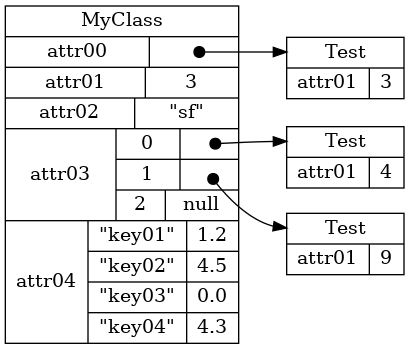
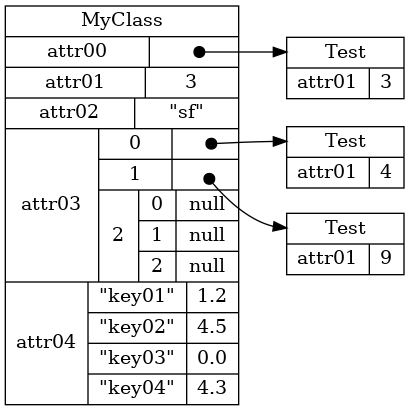
en cours) ObjectGraph comme une structure

Changed region(s): [[0.0, 0.0, 0.9976, 1.0]]

diff --git a/ntro_core/src/main/java/ca/ntro/core/reflection/object_graph/InternalObjectGraphWriterNtro.java b/ntro_core/src/main/java/ca/ntro/core/reflection/object_graph/InternalObjectGraphWriterNtro.java
@@ -10,6 +10,7 @@ import ca.ntro.core.graph_writer.GraphWriter;
 import ca.ntro.core.graph_writer.GraphWriterException;
 import ca.ntro.core.graph_writer.NodeSpecNtro;
 import ca.ntro.core.graph_writer.RecordItemSpecNtro;
+import ca.ntro.core.graph_writer.RecordNodeSpec;
 import ca.ntro.core.graph_writer.RecordNodeSpecNtro;
 import ca.ntro.core.graph_writer.RecordSpecNtro;
 import ca.ntro.core.graphs.generics.directed_graph.GenericInternalDirectedGraphWriterNtro;
@@ -38,14 +39,11 @@ public class InternalObjectGraphWriterNtro
 
 		}else {
 
-			ObjectGraphSearchOptions oneStepOptions = new ObjectGraphSearchOptionsNtro();
-			oneStepOptions.setMaxDistance(1);
-			
 			graph.startNodes().forEach(n -> {
 				
 				try {
 
-					writeNodeAsStructure(n, oneStepOptions, options, writer);
+					writeNodeAsStructure(n, options, writer);
 
 				} catch (GraphWriterException e) {
 
@@ -65,51 +63,59 @@ public class InternalObjectGraphWriterNtro
 	}
 	
 	protected void writeNodeAsStructure(ObjectNode node,
-						                ObjectGraphSearchOptions oneStepOptions,
 			                            ObjectGraphWriterOptions options,
 			                            GraphWriter writer) throws GraphWriterException {
 
 			RecordNodeSpecNtro fromSpec = recordNodeSpec(node, options);
 			RecordSpecNtro mainRecord = fromSpec.getRecord();
+			
+			mainRecord.addItem(new RecordItemSpecNtro(RecordNodeSpec.MAIN_PORT_NAME, node.label()));
+			
+			writeNodeAsStructure(fromSpec, node, mainRecord, options, writer);
 
-			node.edges().forEach(e -> {
+			writer.addNode(fromSpec);
+	}
+
+	protected void writeNodeAsStructure(RecordNodeSpecNtro fromSpec,
+										ObjectNode currentNode,
+			                            RecordSpecNtro currentRecord,
+			                            ObjectGraphWriterOptions options,
+			                            GraphWriter writer) throws GraphWriterException {
+
+			currentNode.edges().forEach(e -> {
 				
 				String attributeName = e.name().toString();
 				
 				if(e.to().isSimpleValue()) {
 					
-					RecordItemSpecNtro item = new RecordItemSpecNtro(attributeName, e.to().asSimpleValue().asString());
+					currentRecord.addItem(attributeName, e.to().asSimpleValue().asString());
 
-					mainRecord.addItem(item);
-
-				}else if(e.to().isList()){
+				}else if(e.to().isList() 
+						|| e.to().isMap()){
 					
-					RecordSpecNtro subRecord = new RecordSpecNtro();
+					RecordSpecNtro subRecord = currentRecord.addSubRecord(attributeName);
 					
 					e.to().edges().forEach(ee -> {
-						
-						String indexName = ee.name().toString();
-						String portName = attributeName + "_" + indexName;
-						
-						//fromSpec.addToList(e.name().toString(), e.to());
-						
-						if(!ee.to().isSimpleValue()) {
-							
-							// TODO: how to specify port
-							//writer.addEdge(fromSpec, new EdgeSpecNtro(e), new NodeSpecNtro(ee.to()));
-						}
+
+						writeNodeAsStructure(fromSpec, ee.to(), subRecord, options, writer);
+
 					});
 					
-					mainRecord.addItem(subRecord);
+				}else if(e.to().isUserDefinedObject()){
+
+					RecordItemSpecNtro item = currentRecord.addItem(attributeName);
 					
-				}else if(e.to().isMap()){
-					
-					//fromSpec.addToMap(e.name().toString(), e.to());
+					recordEdges.add(new EdgeSpecNtro(fromSpec, 
+							                         item.port(),
+							                         e,
+							                         nodeSpec(e.to(), options),
+							                         RecordNodeSpec.MAIN_PORT_NAME));
+
+					writeNodeAsStructure(e.to(), options, writer);
 				}
 			});
-
-			writer.addNode(fromSpec);
 	}
+	
 
 	@Override
 	protected void writeEdges(GenericGraph<ObjectNode,ReferenceEdge,ObjectGraphSearchOptions,ObjectGraphWriterOptions> graph, 

diff --git a/ntro_core/src/main/java/ca/ntro/core/graph_writer/RecordItemSpecNtro.java b/ntro_core/src/main/java/ca/ntro/core/graph_writer/RecordItemSpecNtro.java
@@ -2,43 +2,102 @@ package ca.ntro.core.graph_writer;
 
 public class RecordItemSpecNtro implements RecordItemSpec {
 	
+	private String portName;
+	private String value;
+	private RecordSpecNtro parent;
+	
+
+	public String getPortName() {
+		return portName;
+	}
+
+	public void setPortName(String portName) {
+		this.portName = portName;
+	}
+
+	public RecordSpecNtro getParent() {
+		return parent;
+	}
+
+	public void setParent(RecordSpecNtro parent) {
+		this.parent = parent;
+	}
+	
+	public String getValue() {
+		return value;
+	}
+
+	public void setValue(String value) {
+		this.value = value;
+	}
+
+	public RecordItemSpecNtro() {
+	}
 	
 	
+	public RecordItemSpecNtro(String portName, String value) {
+		setPortName(portName);
+		setValue(value);
+	}
+
+	public RecordItemSpecNtro(String portNAme, RecordSpecNtro parent) {
+		setPortName(portNAme);
+		setParent(parent);
+	}
+
+	public RecordItemSpecNtro(String portName, String value, RecordSpecNtro parent) {
+		setPortName(portName);
+		setValue(value);
+		setParent(parent);
+	}
+
+	public boolean hasParent() {
+		return getParent() != null;
+	}
+	
+	public RecordSpecNtro parent() {
+		return getParent();
+	}
 
 	@Override
 	public boolean hasPort() {
-		// TODO Auto-generated method stub
-		return false;
+		return getPortName() != null;
 	}
 
 	@Override
 	public String port() {
-		// TODO Auto-generated method stub
-		return null;
+		String port;
+		
+		if(hasParent()) {
+
+			port = parent().port() + "_" + getPortName();
+
+		}else {
+			
+			port = getPortName();
+			
+		}
+		
+		return port;
 	}
 
 	@Override
 	public boolean hasValue() {
-		// TODO Auto-generated method stub
-		return false;
+		return getValue() != null;
 	}
 
 	@Override
 	public String value() {
-		// TODO Auto-generated method stub
-		return null;
+		return getValue();
 	}
 
 	@Override
 	public boolean isRecord() {
-		// TODO Auto-generated method stub
 		return false;
 	}
 
 	@Override
 	public RecordSpec asRecord() {
-		// TODO Auto-generated method stub
-		return null;
+		return (RecordSpec) this;
 	}
-
 }

diff --git a/ntro_core/src/main/java/ca/ntro/core/graph_writer/RecordSpecNtro.java b/ntro_core/src/main/java/ca/ntro/core/graph_writer/RecordSpecNtro.java
@@ -15,6 +15,8 @@ public class      RecordSpecNtro
 
 	private List<RecordItemSpec> items = new ArrayList<>();
 
+
+
 	public List<RecordItemSpec> getItems() {
 		return items;
 	}
@@ -27,15 +29,57 @@ public class      RecordSpecNtro
 		getItems().add(item);
 	}
 	
+	
+	
+	public RecordSpecNtro() {
+		super();
+	}
+	
+	public RecordSpecNtro(String attributeName, RecordSpecNtro recordSpecNtro) {
+		super(attributeName, recordSpecNtro);
+	}
+	
+	
+	
+
+	@Override
+	public boolean isRecord() {
+		return true;
+	}
+	
 	@Override
 	public Stream<RecordItemSpec> items() {
 		return new StreamNtro<RecordItemSpec>() {
 			@Override
 			public void _forEach(Visitor<RecordItemSpec> visitor) throws Throwable {
-				for(RecordItemSpec item : items) {
+				for(RecordItemSpec item : getItems()) {
 					visitor.visit(item);
 				}
 			}
 		};
+	}
+
+	public RecordSpecNtro addSubRecord(String attributeName) {
+		RecordSpecNtro subRecord = new RecordSpecNtro(attributeName, this);
+		
+		getItems().add(subRecord);
+		
+		return subRecord;
+	}
+
+	public RecordItemSpecNtro addItem(String attributeName) {
+		RecordItemSpecNtro newItem = new RecordItemSpecNtro(attributeName, this);
+		
+		getItems().add(newItem);
+		
+		return newItem;
+	}
+
+	public RecordItemSpecNtro addItem(String attributeName, String value) {
+		RecordItemSpecNtro newItem = new RecordItemSpecNtro(attributeName, value, this);
+		
+		getItems().add(newItem);
+		
+		return newItem;
 	}
 }

diff --git a/ntro_core/src/main/java/ca/ntro/core/graph_writer/RecordNodeSpec.java b/ntro_core/src/main/java/ca/ntro/core/graph_writer/RecordNodeSpec.java
@@ -2,6 +2,8 @@ package ca.ntro.core.graph_writer;
 
 public interface RecordNodeSpec extends NodeSpec {
 	
+	public static final String MAIN_PORT_NAME="_C";
+	
 	RecordSpec record();
 
 }
